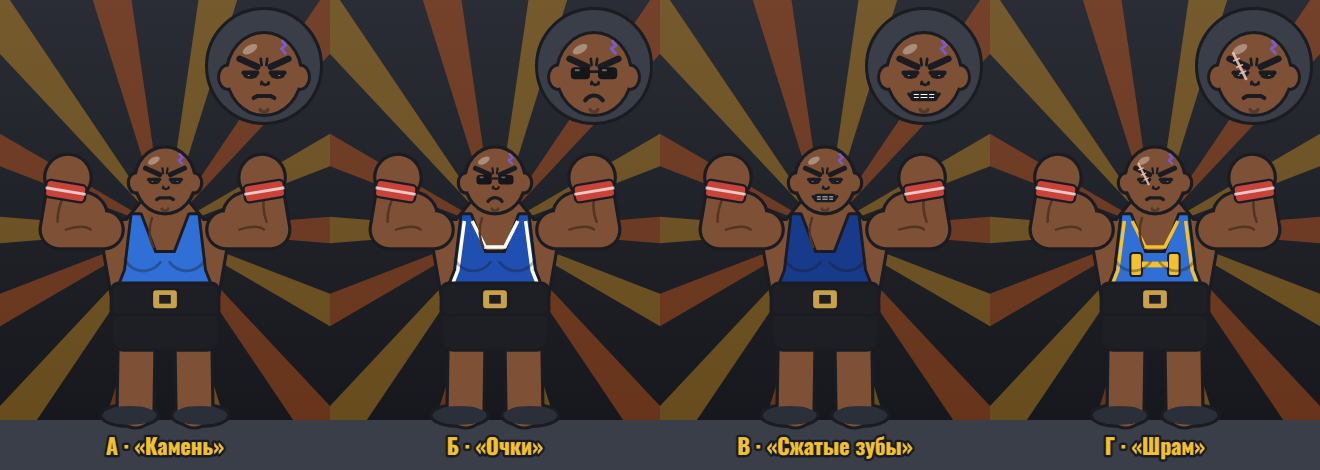
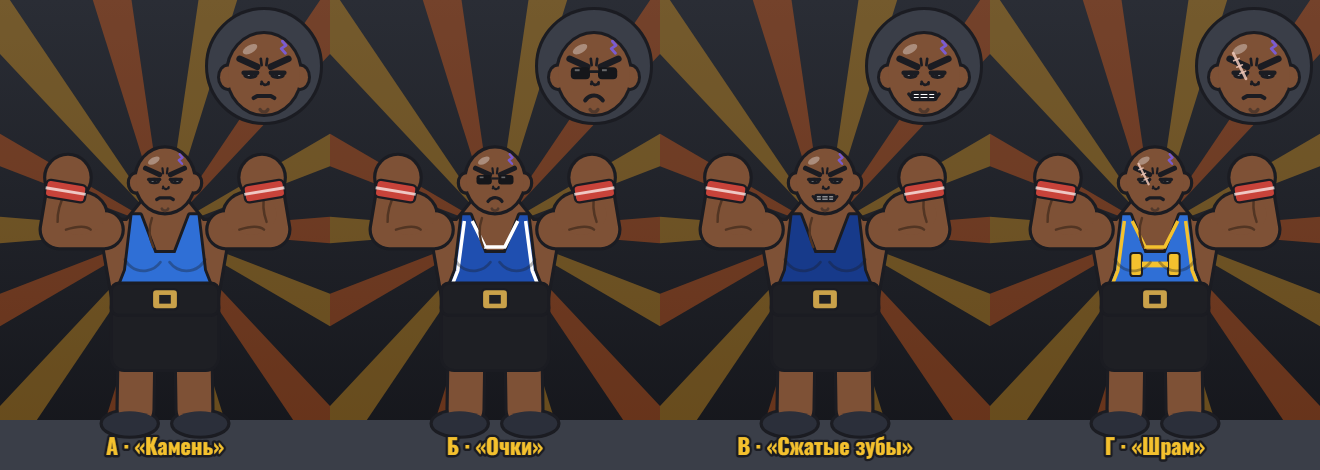
Мотиватор: согласован вариант В «Сжатые зубы», шорты длиннее, обувь ниже
У толстых ног кроссовки ниже и крупнее — пятки больше не торчат.

diff --git a/index.html b/index.html
@@ -88,7 +88,7 @@ const NPC = {
   girl: { build: 0.35, top: '#3FA88A', pants: '#2F3A55', hair: 'pony', hairC: '#6B3E26' },
   blogger: { build: 0.8, type: 'tee', top: '#7C5CC4', pants: '#2C3552', hair: 'buzz', hairC: '#C9A14A' },
   galya: { build: 1.6, type: 'robe', top: '#5C86C4', pants: '#5C86C4', shoe: '#3B3F47', hair: 'kerchief', hairC: '#C8433A', belly: true },
-  bro: { build: 4.3, skin: '#7E5136', top: '#2F6FD6', pants: '#1E1F24', shoe: '#2B2F3A', hair: 'bald', shorts: true, traps: true, veins: true, belt: true, wraps: true, ripped: true, stringer: true },
+  bro: { build: 4.3, skin: '#7E5136', top: '#2F6FD6', pants: '#1E1F24', shoe: '#2B2F3A', hair: 'bald', shorts: true, shortsLen: 50, traps: true, veins: true, belt: true, wraps: true, ripped: true, stringer: true },
   valera: { build: 1.6, type: 'jacket', top: '#2E56A8', pants: '#2E56A8', stripes: true, hair: 'cap', hairC: '#C8433A', mustache: true, whistle: true, belly: true },
 };
 // Варианты мотиватора: синяя майка-борцовка, рот закрыт. Какой берём — решает автор (BRO_LOOK).
@@ -98,7 +98,7 @@ const BRO_LOOKS = {
   c: { name: 'В · «Сжатые зубы»', top: '#173A8A', mood: 'clench' },
   d: { name: 'Г · «Шрам»', top: '#2F6FD6', trim: '#F4C12E', print: 'db', scar: true, mood: 'grim' },
 };
-let BRO_LOOK = 'a';
+let BRO_LOOK = 'c';   // согласован вариант В «Сжатые зубы»
 const broLook = (extra) => Object.assign({}, NPC.bro, BRO_LOOKS[BRO_LOOK], extra);
 const BARKS = {
   tolyan: { start: ['Работаем, братиш!', 'Мел возьми, скользко же'], idle: ['Братиш, ты долго ещё?', 'Ты там уснул?'], red: ['О, пошла работа!', 'Терпи, растёшь!'],
@@ -367,14 +367,16 @@ function person(c, x, y, s, o = {}) {
   const skin = sil || o.skin || P.skin, top = sil || o.top || P.tank, pants = sil || o.pants || P.pants, shoe = sil || o.shoe || P.white;
   const type = o.type || 'tank', legC = o.shorts ? skin : pants;
   c.save(); c.translate(x, y); c.scale(o.flip ? -s : s, s);
+  // у толстых ног круглый конец уходит ниже обычной кроссовки — тогда кроссовка ниже и выше, чтобы пятка не торчала
+  const shoeY = Math.max(-6, -12 + lw / 2), shoeRy = Math.max(6.5, lw * 0.36);
   blob(c, [
     { k: 'rr', x: -sw * 0.74, y: HIP - 4, w: sw * 1.48, h: 18, r: 6, c: pants },
     { k: 'line', p: [[-hip, HIP + 6], [-hip - 1, -10]], w: lw, c: legC },
     { k: 'line', p: [[hip, HIP + 6], [hip + 1, -10]], w: lw, c: legC },
-    { k: 'ell', x: -hip - 5, y: -6, rx: lw * 0.8, ry: 6.5, c: shoe },
-    { k: 'ell', x: hip + 5, y: -6, rx: lw * 0.8, ry: 6.5, c: shoe },
+    { k: 'ell', x: -hip - 5, y: shoeY, rx: lw * 0.8, ry: shoeRy, c: shoe },
+    { k: 'ell', x: hip + 5, y: shoeY, rx: lw * 0.8, ry: shoeRy, c: shoe },
   ], OLW);
-  if (o.shorts) blob(c, [{ k: 'rr', x: -sw * 0.8, y: HIP - 8, w: sw * 1.6, h: 36, r: 8, c: pants }], OLW);
+  if (o.shorts) blob(c, [{ k: 'rr', x: -sw * 0.8, y: HIP - 8, w: sw * 1.6, h: o.shortsLen || 36, r: 8, c: pants }], OLW);
   if (o.stripes && !sil) { c.save(); c.strokeStyle = P.stripe; c.lineWidth = 2.2; c.lineCap = 'round'; for (const sg of [-1, 1]) { c.beginPath(); c.moveTo(sg * (hip + lw * 0.32), HIP + 10); c.lineTo(sg * (hip + 1 + lw * 0.32), -16); c.stroke(); } c.restore(); }
   const neck = { k: 'line', p: [[0, SH - 4], [0, SH - 16]], w: 12 + b * 2.5, c: skin };
   const bodyParts = [neck];

diff --git a/MECHANICS.md b/MECHANICS.md
@@ -17,7 +17,7 @@
   - «СМЕЛО» и «ОБОСРЁШЬСЯ» — уважают (большой палец, «Уважаю, серьёзно»), +20 банок;
   - сильно сверх плана на любом уровне (на 3 повтора или на половину плана больше, что больше) — «ТЫ МАШИНА!», сосед жмёт руку, +40 банок.
   - В обучении не смеются; «машина» засчитывается и там.
-- **Мотиватор в синей майке-борцовке, рот закрыт** — 4 варианта в `mockups/png/motivator-variants.png` (А «Камень», Б «Очки», В «Сжатые зубы», Г «Шрам»). Пока в игре вариант А, ждёт согласования.
+- **Мотиватор в синей майке-борцовке, рот закрыт** — 4 варианта в `mockups/png/motivator-variants.png` (А «Камень», Б «Очки», В «Сжатые зубы», Г «Шрам»). Согласован **В «Сжатые зубы»**: тёмная сине-морская борцовка, прищур, оскал сжатых зубов. Шорты длиннее (почти до колена), кроссовки ниже и крупнее — у толстых ног пятки больше не торчат.
 
 ## Прототип v7 (14.11.2026) — задержка штанги отнимает силы
 
